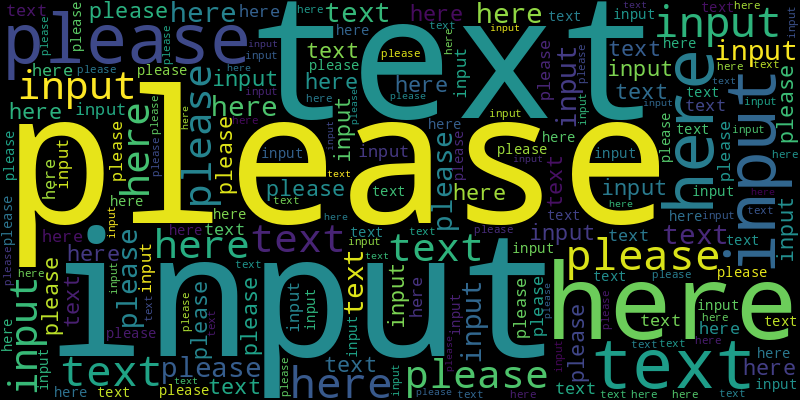
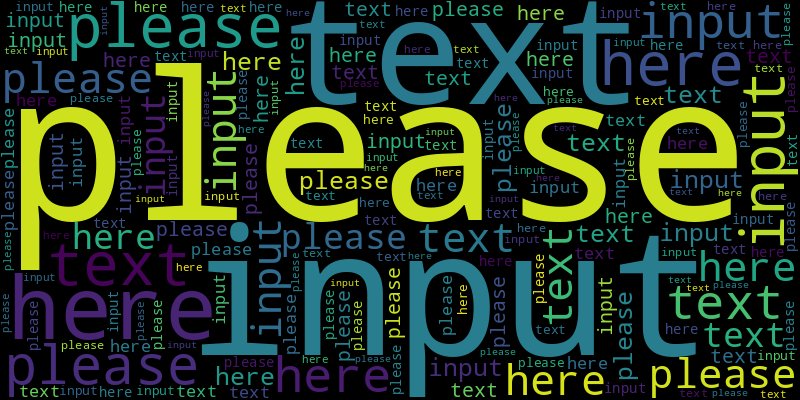
add color function

diff --git a/main.py b/main.py
@@ -1,4 +1,4 @@
-from wordcloud import WordCloud
+from wordcloud import WordCloud, ImageColorGenerator
 import streamlit as st
 import numpy as np
 from PIL import Image 
@@ -48,13 +48,16 @@ expander2.write("if you use your own mask image, its background color must be wh
 ownmaskimg = expander2.file_uploader("Upload mask",accept_multiple_files=False)
 useownmask = expander2.toggle("apply your mask")
 
+
 edge_color = "white"
 edge_size = 0
+colorapply = False
 if useownmask:
     edge = expander2.toggle("add edge")
+    colorapply = expander2.toggle("apply image color")
     if edge:
-        edge_size = expander2.number_input("size",1,100)
-        edge_color = expander2.selectbox("color",["white","black"])
+        edge_size = expander2.number_input("edge size",1,100)
+        edge_color = expander2.selectbox("edge color",["white","black"])
 
 "---"
 
@@ -96,6 +99,7 @@ else:
             contour_width=edge_size
             )
         wc.generate(text)
+        wc = wc if not colorapply else wc.recolor(color_func=(ImageColorGenerator(np.array(Image.open(ownmaskimg)))))
         wc.to_file("img.png")
         st.image("img.png",use_column_width=True)
 
